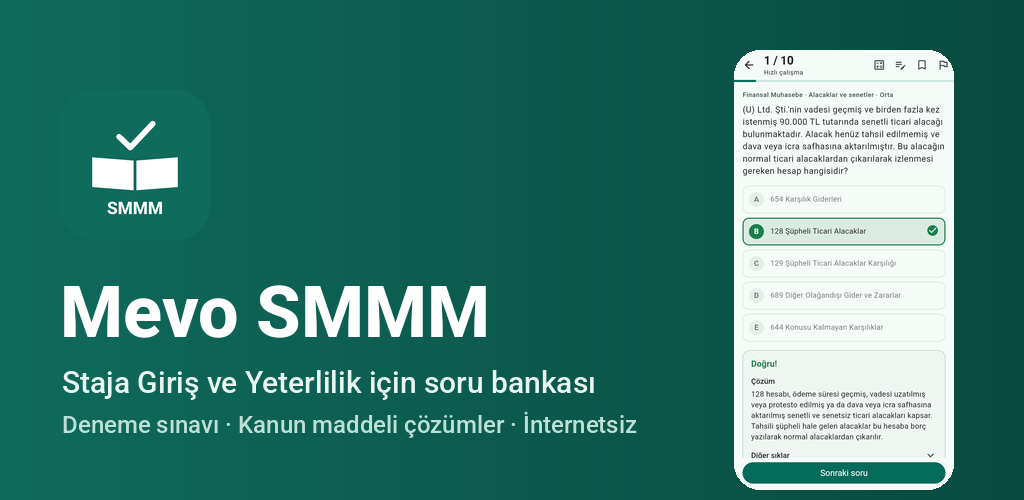
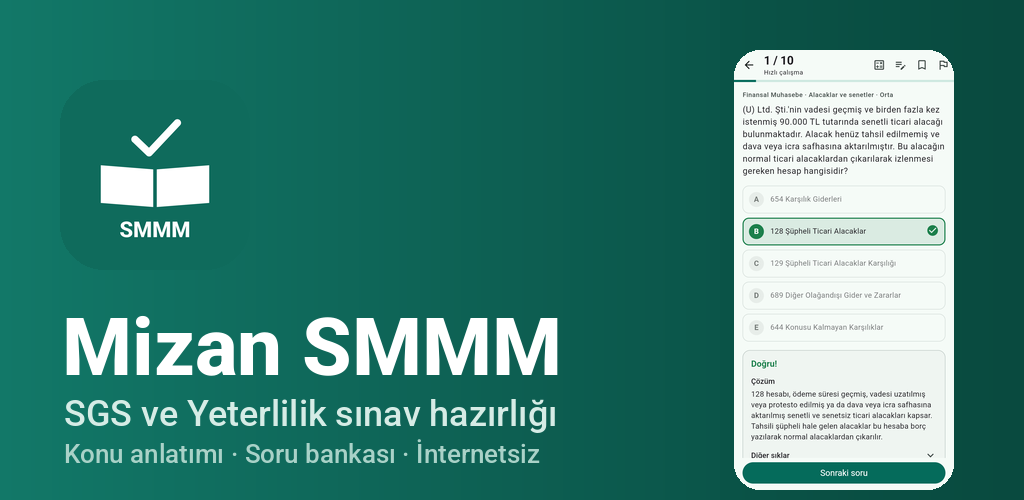
Eski 'Mevo' adları temizlendi: SMMM öne çıkan görsel, web önizleme başlığı, pubspec açıklaması

Changed region(s): [[0.0625, 0.57, 0.625, 0.93], [0.0625, 0.24, 0.2188, 0.48]]

diff --git a/web/onizleme/index.html b/web/onizleme/index.html
@@ -1,4 +1,4 @@
-<title>Mevo SMMM</title>
+<title>Mizan SMMM</title>
 <link rel="preconnect" href="https://fonts.googleapis.com">
 <link rel="preconnect" href="https://fonts.gstatic.com" crossorigin>
 <link rel="stylesheet" href="https://fonts.googleapis.com/css2?family=IBM+Plex+Mono:wght@400;500&family=IBM+Plex+Sans:ital,wght@0,400;0,500;0,600;1,400&family=Bricolage+Grotesque:opsz,wght@12..96,600;12..96,700&display=swap">
@@ -121,7 +121,7 @@ h2 { font: 700 22px/1.25 var(--font-display); margin: 0 0 6px; text-wrap: balanc
 <header class="top">
   <div class="wrap">
     <div class="bar">
-      <div class="brand">mevo<span>.</span> SMMM</div>
+      <div class="brand">mizan<span>.</span> SMMM</div>
       <div class="seg" role="group" aria-label="Sınav">
         <button id="b-yet" aria-pressed="true" data-bolum="YET">Yeterlilik</button>
         <button id="b-sgs" aria-pressed="false" data-bolum="SGS">Staja Giriş</button>

diff --git a/docs/DEVAM.md b/docs/DEVAM.md
@@ -63,7 +63,7 @@ Yeni oturumda ilk mesaj: **"docs/DEVAM.md dosyasını oku ve kaldığın yerden 
 
 ## Proje ve çalışma kuralları
 
-- Türkiye SMMM sınavına (Yeterlilik + SGS) hazırlık için çevrimdışı Android uygulaması (`app.mevo.smmm`), sahibi Merve.
+- Türkiye SMMM sınavına (Yeterlilik + SGS) hazırlık için çevrimdışı Android uygulaması (artık `app.mizan.smmm`), sahibi Merve.
   Ek hedef: YMM sınavı. Biz **denetleyiciyiz**: dış üreticilerden (ChatGPT, Grok, Gemini…) gelen soru/anlatımı eler,
   hakemden geçirir, uygulamaya alırız.
 - Dal: oturumun verdiği dal (son: `claude/ymm-cikmis-analiz`); push öncesi `git pull --rebase`. PR açma (istenmedikçe).
